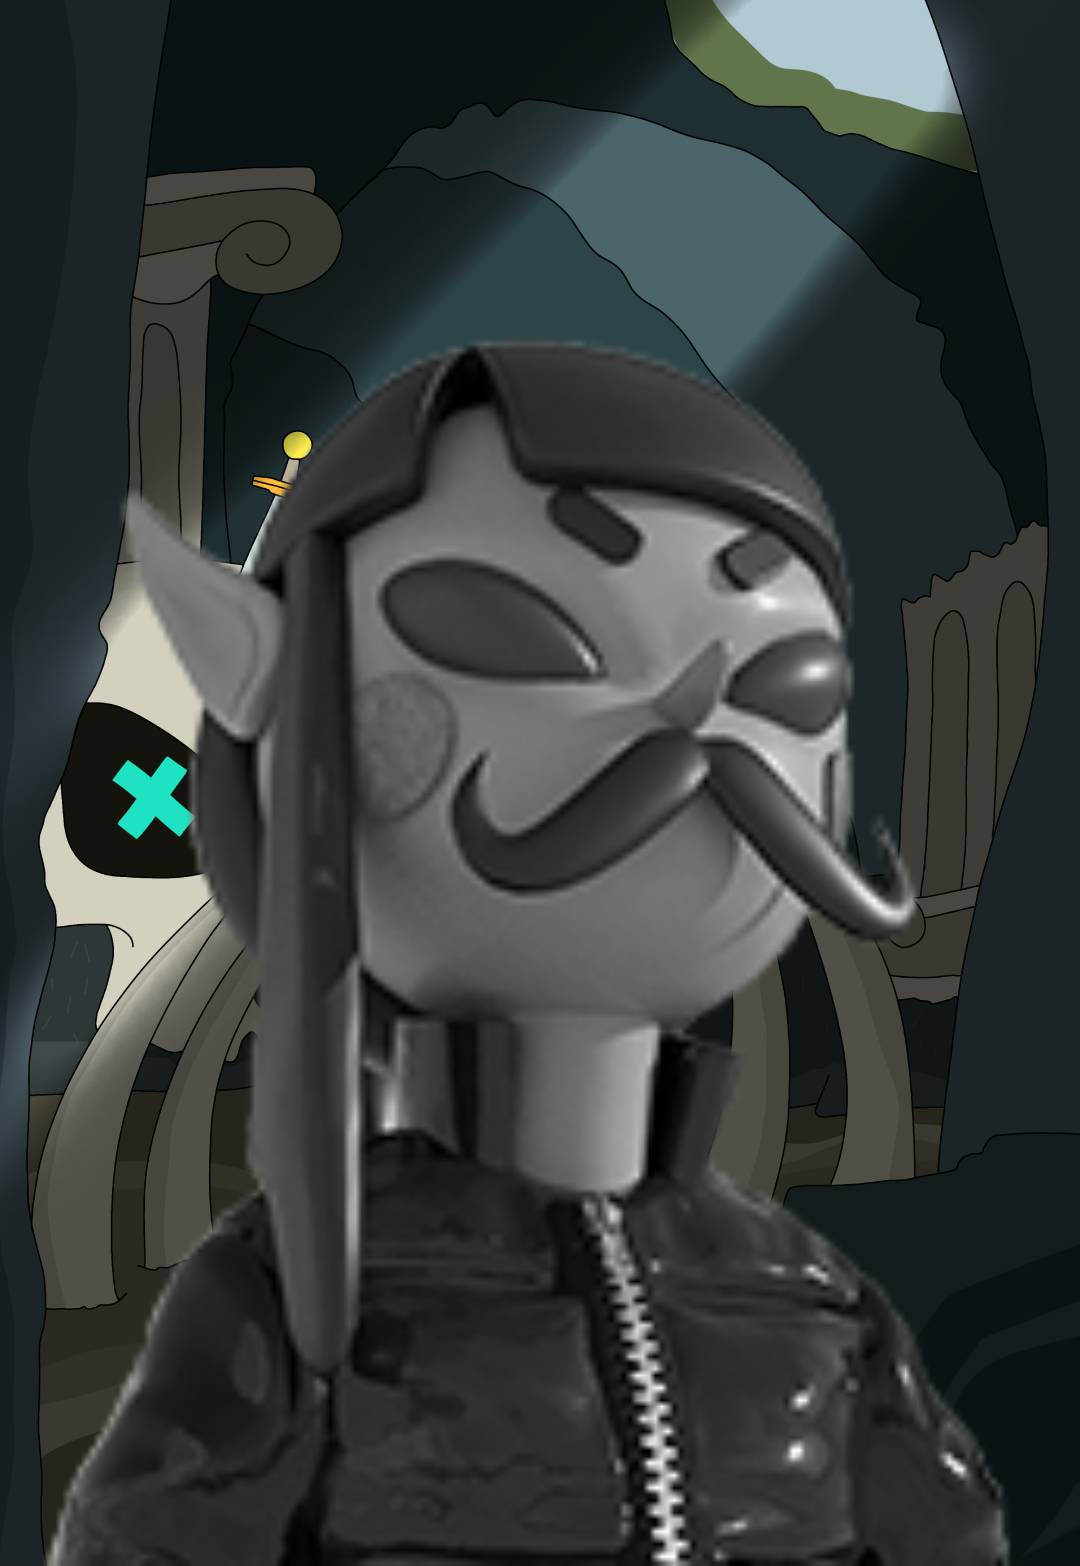
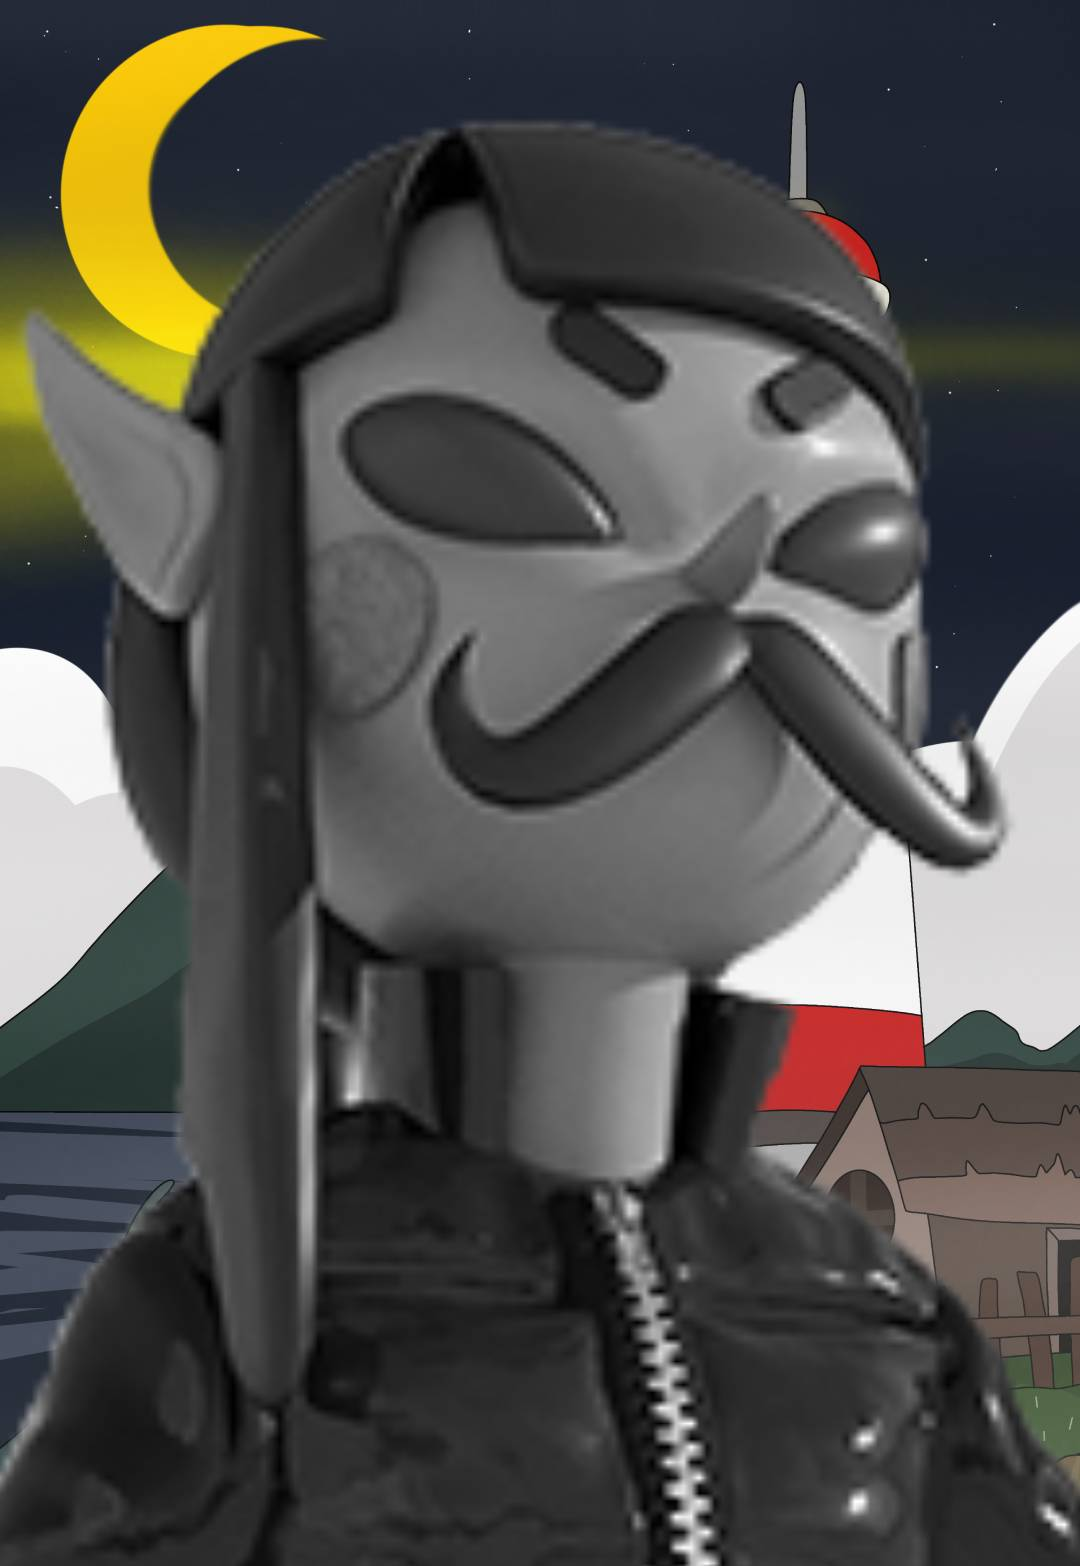
Update Team Section

diff --git a/src/components/Team/Team.js b/src/components/Team/Team.js
@@ -12,6 +12,9 @@ import ninja from '../../images/team/ninja.jpg'
 import slendie from '../../images/team/slendie.jpg'
 import sludgie from '../../images/team/sludgie.jpg'
 import squarehead from '../../images/team/squarehead.jpg'
+import micah from '../../images/team/micah.jpg'
+import raf from '../../images/team/raf.jpg'
+import boiimustache from '../../images/team/boiimustache.jpg'
 
 import bordertl from '../../images/team-tl.png'
 import bordertr from '../../images/team-tr.png'
@@ -64,24 +67,42 @@ export default function Team() {
         },
         {
             id: 8,
+            thumbnail: boiimustache,
+            name: "BOII MUSTACHE",
+            position: "3D ANIMATOR"
+        },
+        {
+            id: 9,
             thumbnail: candyfloss,
             name: "KENDRA LOPERA",
             position: "CONTENT CREATOR"
         },
         {
-            id: 9,
+            id: 10,
+            thumbnail: micah,
+            name: "MICAH GRACE RICO",
+            position: "CONTENT SPECIALIST"
+        },
+        {
+            id: 11,
             thumbnail: hotdogprince,
             name: "YASHA-CHAN",
             position: "COMMUNITY MANAGER"
         },
         {
-            id: 10,
+            id: 12,
             thumbnail: grim,
             name: "RICO ZUÑIGA",
             position: "TECHNICAL ADVISOR"
         },
         {
-            id: 11,
+            id: 13,
+            thumbnail: raf,
+            name: "RAF BANZUELA",
+            position: "CREATIVE ADVISOR"
+        },
+        {
+            id: 14,
             thumbnail: mountainwarrior,
             name: "KARL VASQUEZ",
             position: "MARKETING ADVISOR"
